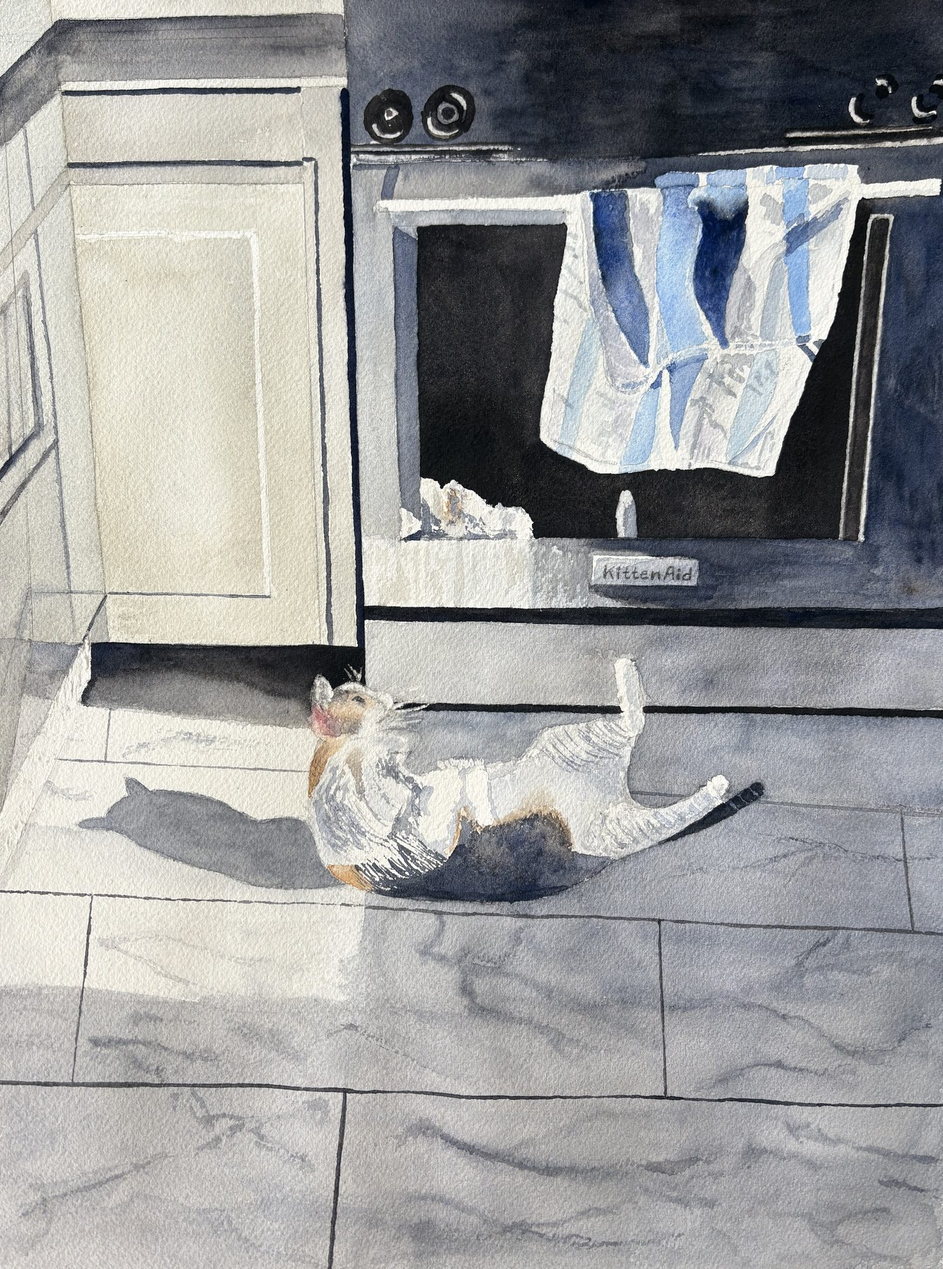
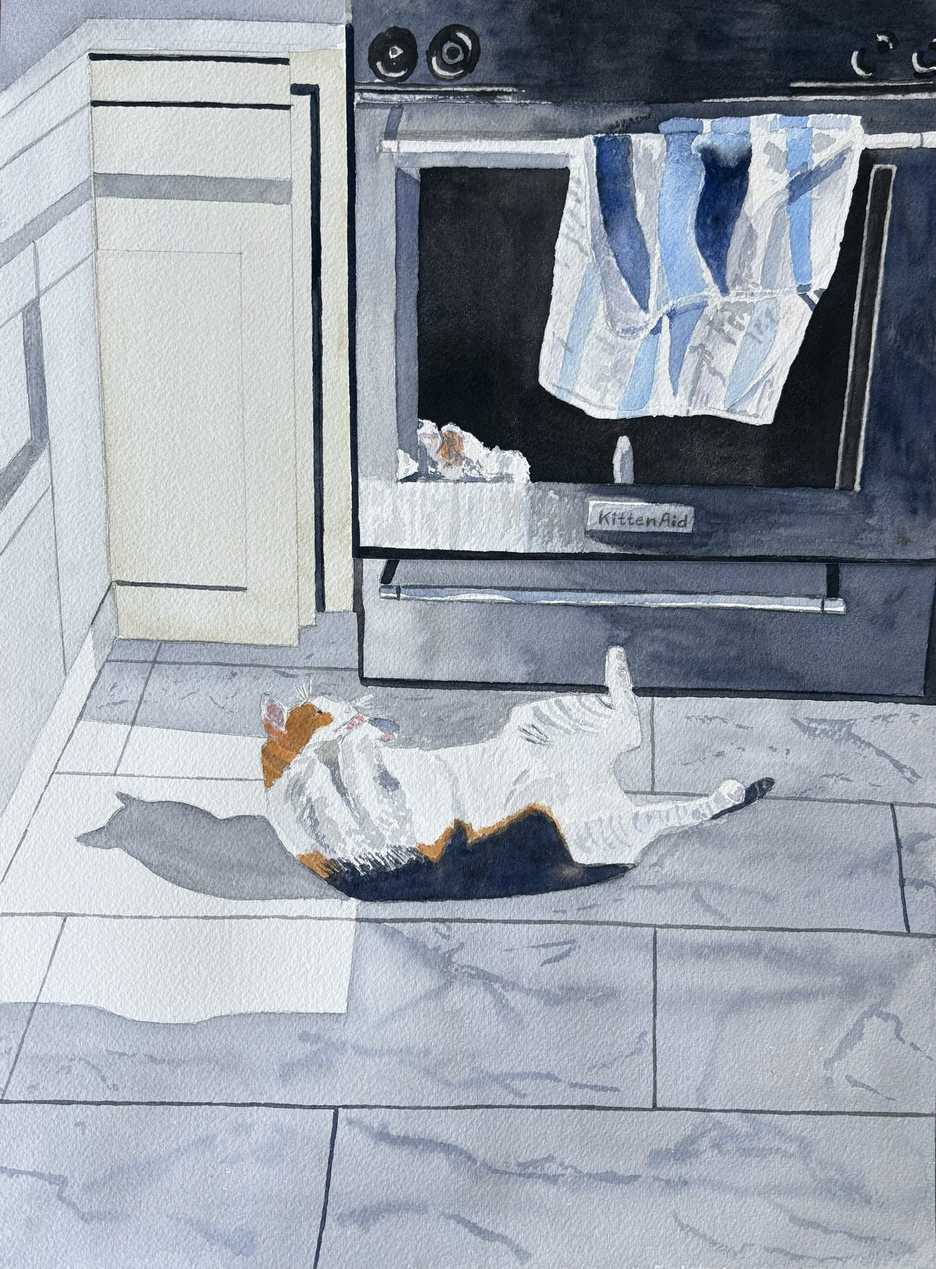
Use a better photograph of Tilly's Moment in the Sun
Shot straight on and evenly lit, replacing the angled table photo.
Slightly different proportions, so the entry's width is updated to match.

diff --git a/content/artworks.js b/content/artworks.js
@@ -62,7 +62,7 @@ window.ARTWORKS = [
   },
   {
     src: "images/tillys-moment-in-the-sun.jpg",
-    width: 1487,
+    width: 1475,
     height: 2000,
     title: "Tilly’s Moment in the Sun",
     year: "2026-08-03",
